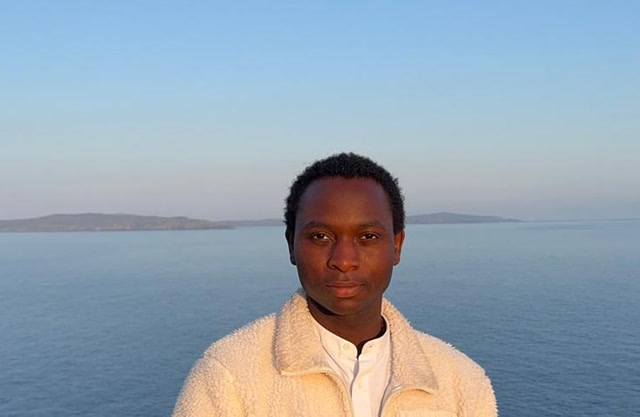
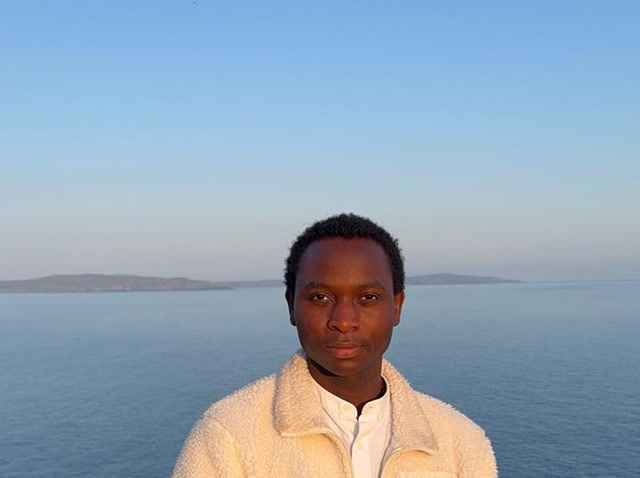
Extend hero fade to desktop and ease mobile framing down
Share the soft bottom blur on desktop, uncrop more mobile sky so the face sits lower, and bump the mobile headline about 15%.

Changed region(s): [[0.0, 0.3429, 1.0, 0.9664]]

diff --git a/src/components/pages/IndexPage.tsx b/src/components/pages/IndexPage.tsx
@@ -87,7 +87,7 @@ function HeroPhoto({
 function HeroCopy({ className = "" }: { className?: string }) {
   return (
     <div className={className}>
-      <h1 className="display whitespace-nowrap text-[clamp(1.35rem,5.6vw,1.55rem)] leading-none tracking-[-0.02em] text-white sm:text-[1.75rem] md:text-[2.15rem] lg:text-[2.45rem] xl:text-[2.7rem]">
+      <h1 className="display whitespace-nowrap text-[clamp(1.55rem,6.4vw,1.78rem)] leading-none tracking-[-0.02em] text-white sm:text-[1.9rem] md:text-[2.15rem] lg:text-[2.45rem] xl:text-[2.7rem]">
         You are the happiness you seek.
       </h1>
       <p className="mt-3 max-w-xl text-[0.95rem] leading-relaxed text-[#d5e6f2] sm:mt-4 sm:text-lg sm:leading-8 md:mt-7 md:max-w-[36rem] md:text-[1.2rem] md:leading-8">
@@ -110,18 +110,18 @@ function Hero() {
   return (
     <section className="relative isolate w-full overflow-hidden bg-[#0a1628] md:h-[100dvh]">
       {/* One photograph — stacked crop on mobile, full-bleed cover on desktop */}
-      <div className="relative h-[50vh] w-full overflow-hidden md:absolute md:inset-0 md:h-full">
+      <div className="relative h-[56vh] w-full overflow-hidden md:absolute md:inset-0 md:h-full">
         <HeroPhoto
           priority
           sizes="100vw"
-          className="absolute inset-0 h-full w-full object-cover object-[center_58%] md:-translate-x-[15%] md:origin-left md:scale-[1.15] md:object-[left_85%]"
+          className="absolute inset-0 h-full w-full object-cover object-[center_68%] md:-translate-x-[15%] md:origin-left md:scale-[1.15] md:object-[left_85%]"
         />
-        {/* Mobile: soft fade from photo into the copy band below */}
+        {/* Soft fade from photo into the band below — mobile + desktop */}
         <div
-          className="pointer-events-none absolute inset-x-0 bottom-0 h-28 md:hidden"
+          className="pointer-events-none absolute inset-x-0 bottom-0 h-36 md:h-44"
           style={{
             background:
-              "linear-gradient(180deg, rgba(10,22,40,0) 0%, rgba(10,22,40,0.35) 42%, rgba(10,22,40,0.78) 72%, #0a1628 100%)",
+              "linear-gradient(180deg, rgba(10,22,40,0) 0%, rgba(10,22,40,0.28) 38%, rgba(10,22,40,0.72) 70%, #0a1628 100%)",
           }}
           aria-hidden
         />
@@ -138,7 +138,7 @@ function Hero() {
       />
 
       <div className="relative z-10 md:flex md:h-full md:items-center">
-        <div className="bg-gradient-to-b from-[#0a1628] via-[#0c1a2e] to-[#0a1628] px-5 pb-10 pt-2 sm:px-6 sm:pb-12 sm:pt-3 md:ml-[44%] md:w-full md:max-w-[720px] md:translate-x-[25%] md:translate-y-[30%] md:bg-none md:bg-transparent md:px-6 md:py-0 md:pr-10 lg:pr-14">
+        <div className="bg-gradient-to-b from-[#0a1628] via-[#0c1a2e] to-[#0a1628] px-5 pb-10 pt-5 sm:px-6 sm:pb-12 sm:pt-6 md:ml-[44%] md:w-full md:max-w-[720px] md:translate-x-[25%] md:translate-y-[30%] md:bg-none md:bg-transparent md:px-6 md:py-0 md:pr-10 lg:pr-14">
           <HeroCopy />
         </div>
       </div>
